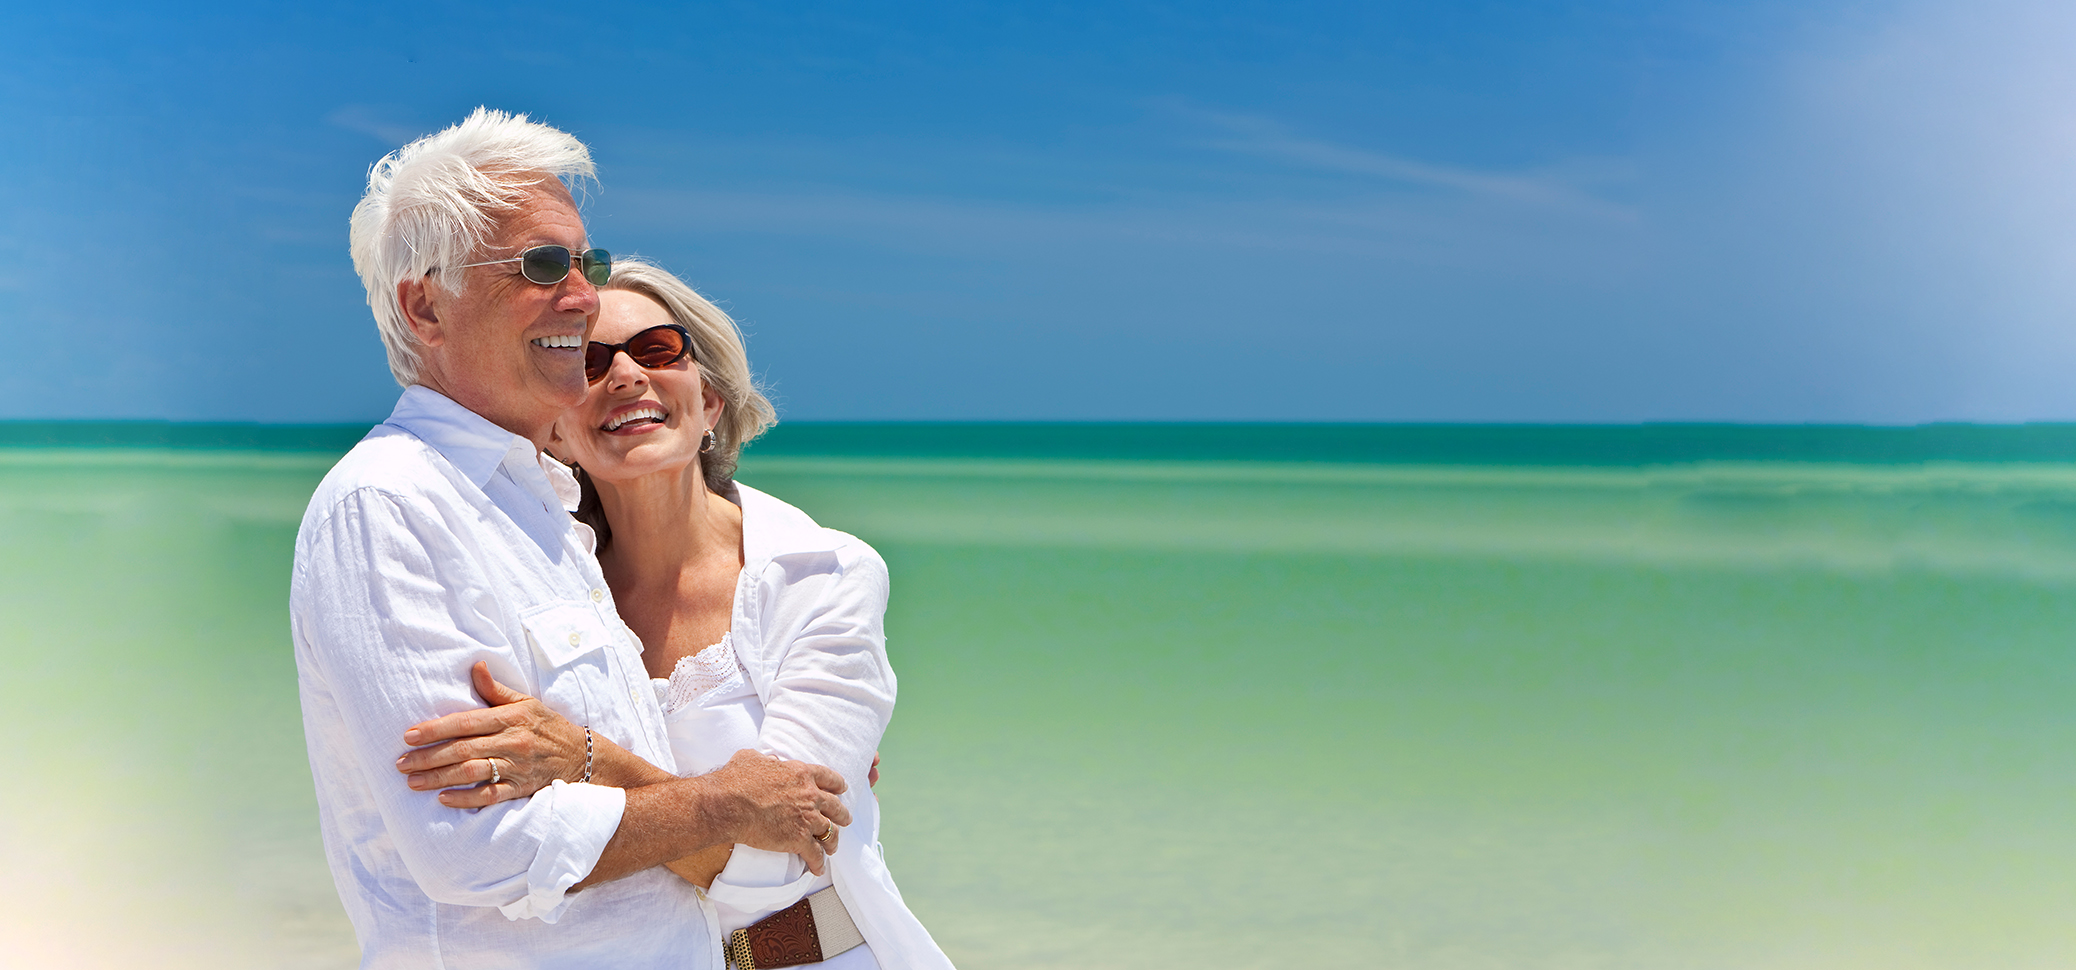
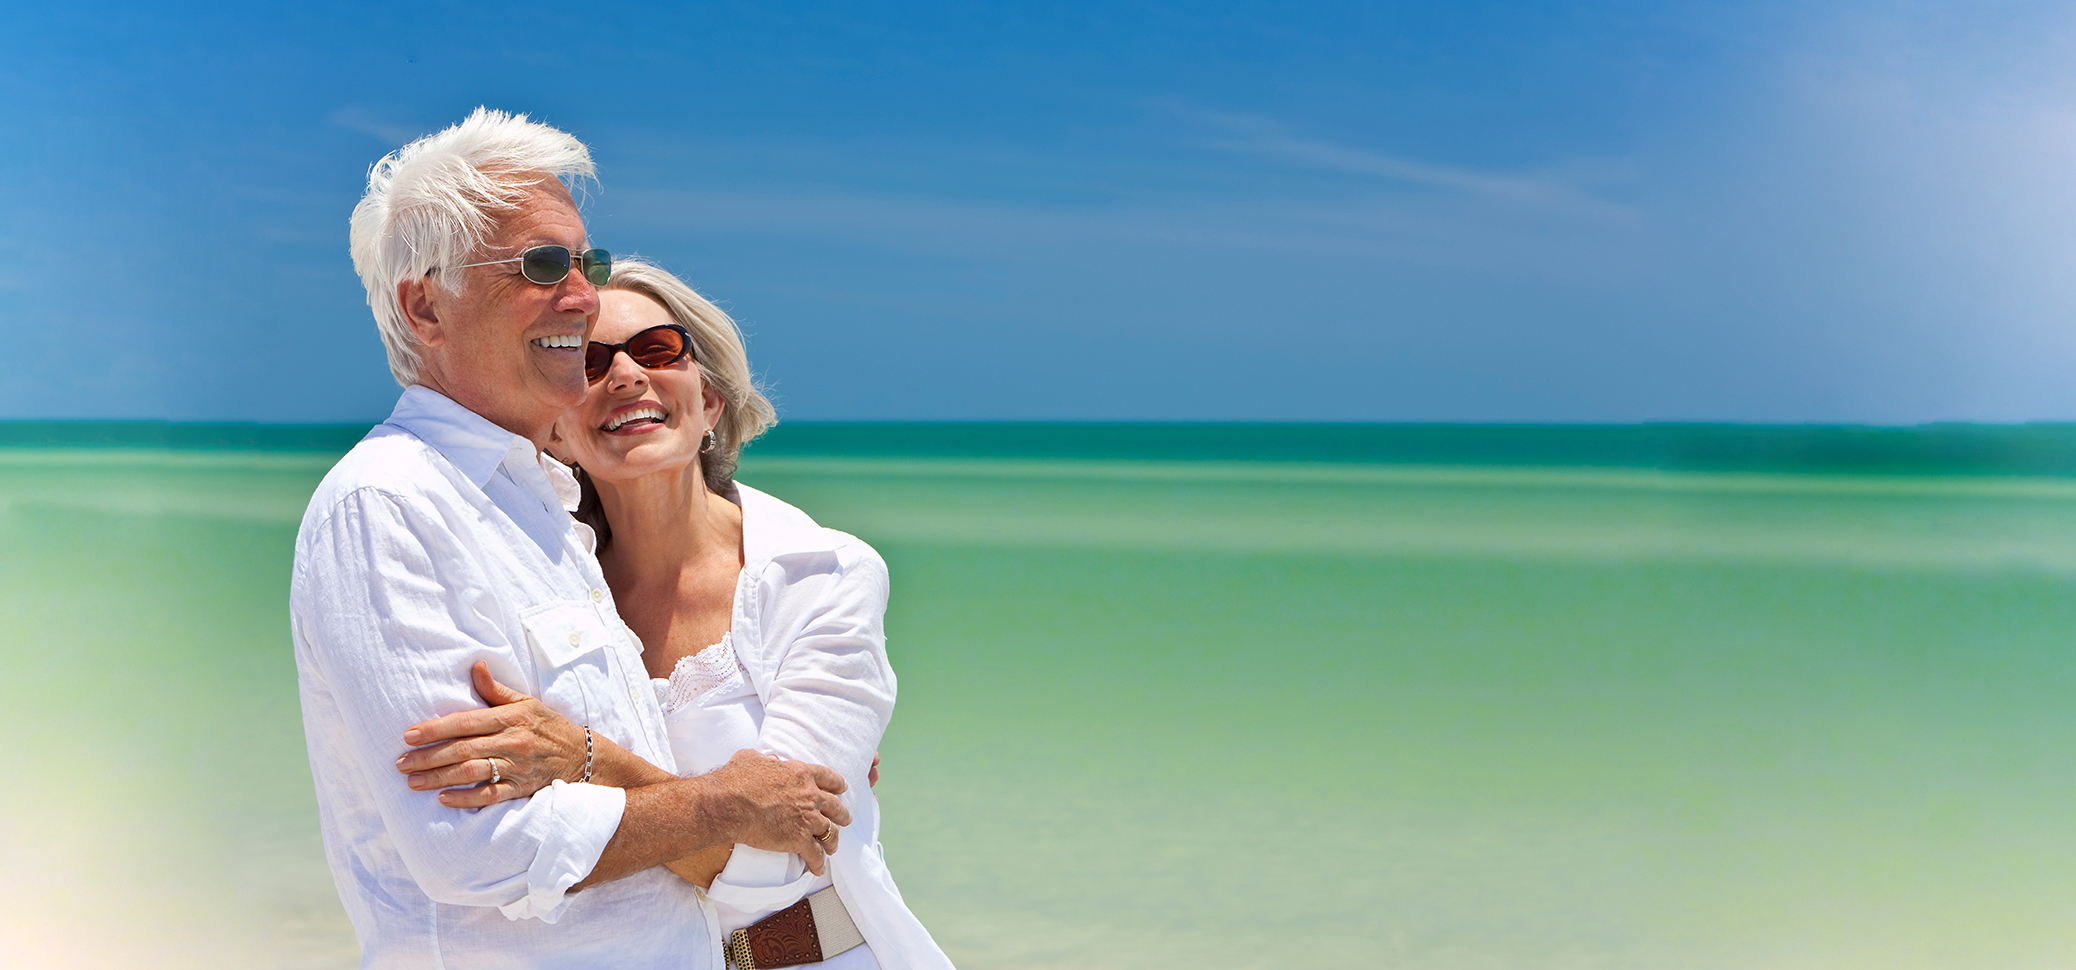
Finished up all the styles on the page, Now i am editing the copy text.

Changed region(s): [[0.8015, 0.433, 1.0, 0.5876], [0.9249, 0.0, 1.0, 0.0619]]

diff --git a/css/style.css b/css/style.css
@@ -13,9 +13,7 @@
     text-align: center;
     margin-top: 5px;
     width: 100%;
-    box-shadow: 0 7px 18px -2px grey;
-    z-index: 10;
-    position: absolute;
+    
 }
 
 #sloganOne{
@@ -24,15 +22,11 @@
 }
 
 .view{
-    background-image: url(../imgs/beachppl-wide-top-3-less.jpg);
-    height: 600px;
+    background-image: url(../imgs/beachppl-wide-top-3-less-mobile.jpg);
+    /* height: 600px; */
     box-shadow: 0 7px 18px -2px grey;
-    z-index: -3;
-    
     background-size:cover;
     /* width:100%; */
-    margin-top: 79px;
-    
 }
 
 /* form styles */
@@ -59,7 +53,7 @@ form{
     font-weight: bold;
     color:#fff;
     background: #00b894;
-    font-size:20px;
+    font-size:18px;
 }
 
 .btn:hover {
@@ -156,11 +150,11 @@ h2 {
     display: block;
     margin-left: auto;
     margin-right: auto;
-    width: 366px;
+    width: 300px;
     background: #65CB8E; 
     text-align: center;
     font-weight: bold;
-    font-size: 250%;
+    font-size: 200%;
     line-height: 100px;
     font-family: Arial;
     margin-bottom:20px; 
@@ -250,9 +244,7 @@ No media query since this is the default in Bootstrap because it is "mobile firs
  
 /* Needed to bring up the image for the shadow */
 @media (min-width: 529px) {
-    .view{
-        margin-top: 51px;
-    }
+   
 }
  
 /* Small devices (landscape phones, 544px and up) */
@@ -266,11 +258,19 @@ No media query since this is the default in Bootstrap because it is "mobile firs
 /* Medium devices (tablets, 768px and up) The navbar toggle appears at this breakpoint */
 @media (min-width: 768px) {  
 
+    .view{
+        background-image: url(../imgs/beachppl-wide-top-3-less.jpg);
+    }
     #logoImg{
         width: 100%;
         margin-top: 10px;
     }
-    
+    #saveOn{
+        margin-bottom:15px;
+    }
+    .marLeft-auto{
+        margin-top: auto;
+    }
      #cityTop{
         display: block;
     }
@@ -287,12 +287,20 @@ No media query since this is the default in Bootstrap because it is "mobile firs
         margin-top: 5px;
         width: 90%;
     }
+    .marLeft-auto{
+        margin-top: 0;
+    }
+   
+   
 }
  
 /* Extra large devices (large desktops, 1200px and up) */
 @media (min-width: 1200px) {  
     form{
         background: rgba(255, 255, 255, 0.5)!important;
+    }
+    .marLeft-auto{
+        margin-left: auto;
     }
 }
  

diff --git a/index.html b/index.html
@@ -55,9 +55,9 @@
                     <div class="row pt-2">
             
                         <!--Grid column-->
-                        <div class="col-md-6 pt-2 ml-auto text-md-left">
+                        <div class="col-lg-8 col-md-7 pt-2 marLeft-auto text-md-left">
                            
-                            <div class="col-lg-5 ml-auto" id="saveOn">
+                            <div class="col-lg-4 col-md-8 ml-auto" id="saveOn">
                                 <h4>Save on: </h4>
                                 <table id="serviceSavings">
                                     <tr>
@@ -107,7 +107,7 @@
                             </div>
                         </div>
                         <!--  Right Side form  -->
-                        <div class="col-md-4 mb-4 pt-2 ml-auto">
+                        <div class="col-lg-4 col-md-5 mb-3 pt-2 ml-auto">
             
                             <!--Form-->
                             <form class="card" id="form" data-toggle="validator" action="submit.html" >
